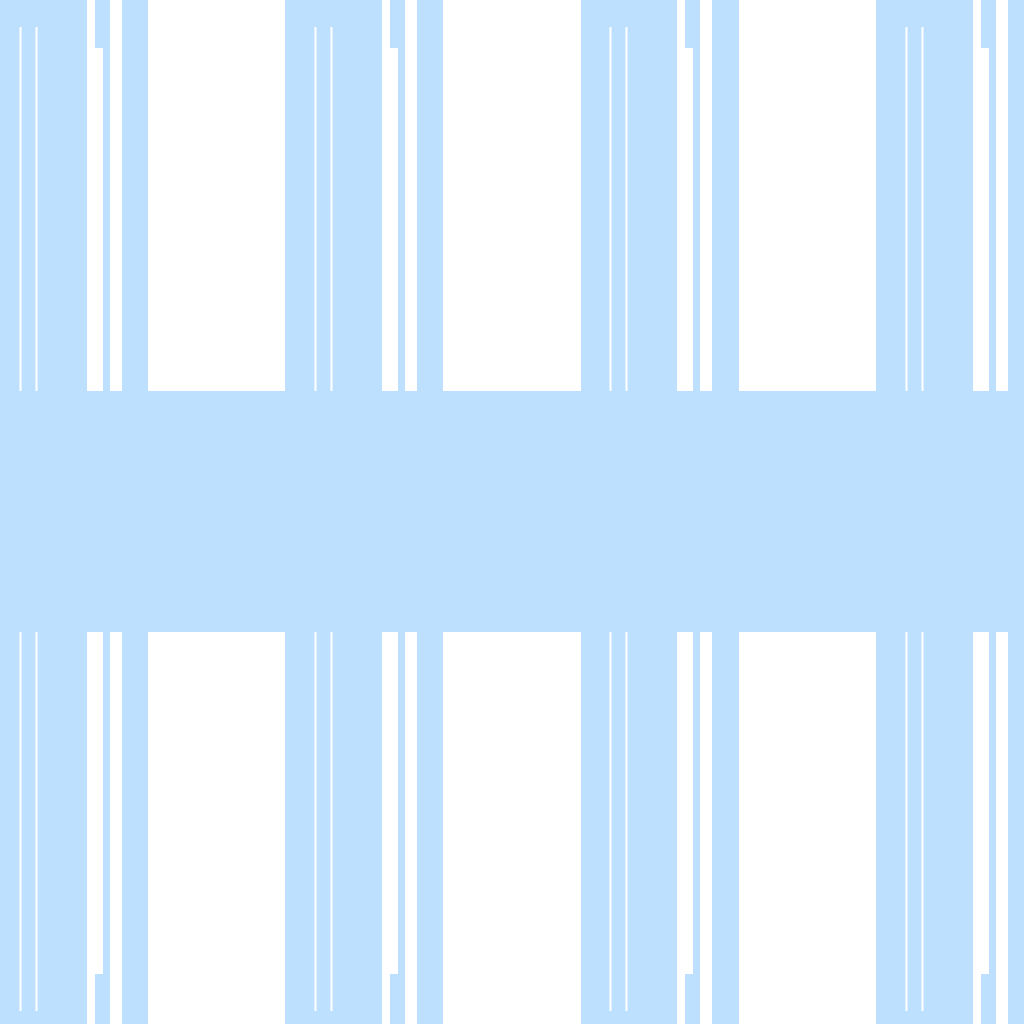
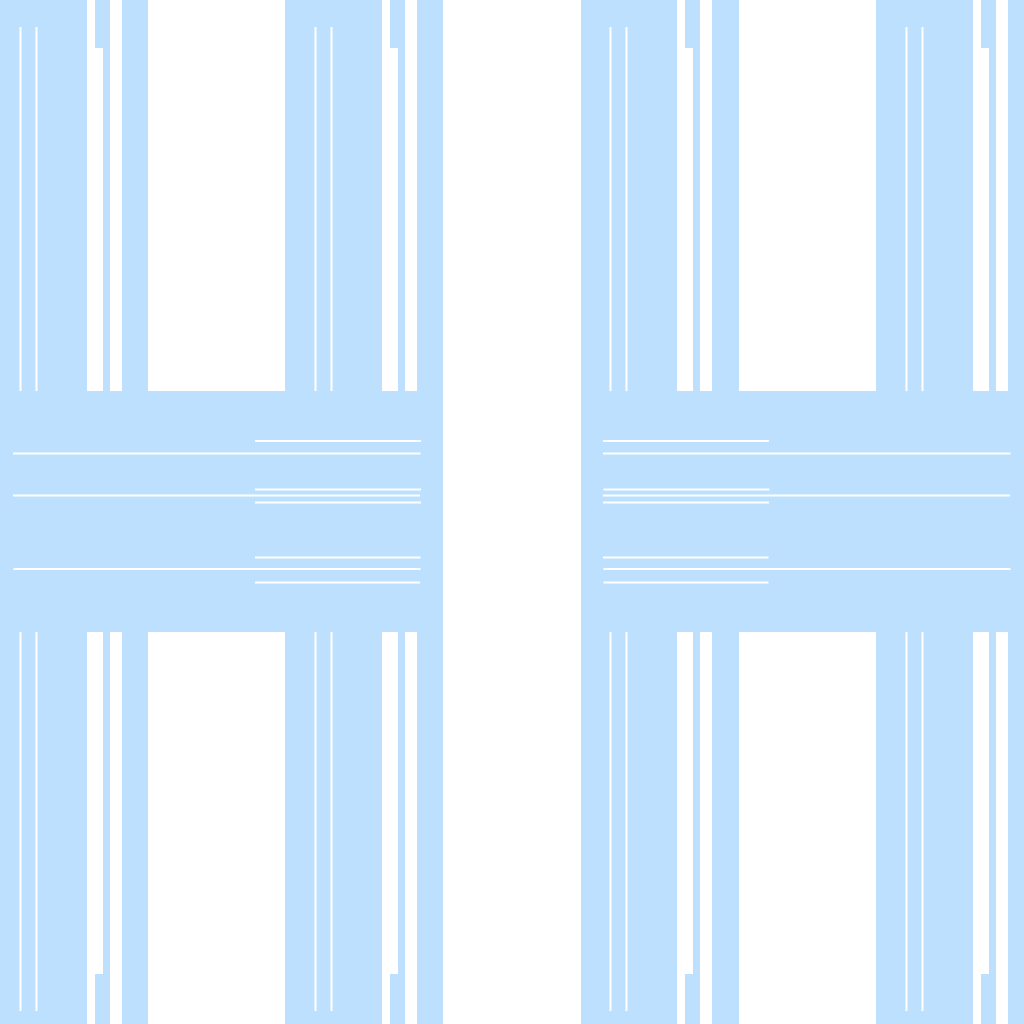
Change

Changed region(s): [[0.25, 0.375, 0.7812, 0.625]]

diff --git a/assets/js/loader.js b/assets/js/loader.js
@@ -51,8 +51,8 @@ var geometry = new THREE.TubeGeometry( path, 300, 4, sides, true );
 //===================================================== Basic material
 var material = new THREE.MeshBasicMaterial({
     side : THREE.BackSide,
-    //map: new THREE.TextureLoader().load('https://raw.githubusercontent.com/Q4zerr/LoaderThreeJS/e61c5d549f3cc285493afb09b85be8f6a6af9ed9/assets/img/loader2.png')
-    map: new THREE.TextureLoader().load('https://raw.githubusercontent.com/Q4zerr/LoaderThreeJS/7e5396a444be701e2a646b862d8168df6c063726/assets/img/loader.png')
+    map: new THREE.TextureLoader().load('https://raw.githubusercontent.com/Q4zerr/LoaderThreeJS/d870c5026012cc975f82818c9b3cb443b0a46e0d/assets/img/loader2.png')
+    //map: new THREE.TextureLoader().load('https://raw.githubusercontent.com/Q4zerr/LoaderThreeJS/7e5396a444be701e2a646b862d8168df6c063726/assets/img/loader.png')
 });
 material.map.wrapS = THREE.RepeatWrapping;
 material.map.wrapT= THREE.RepeatWrapping;
